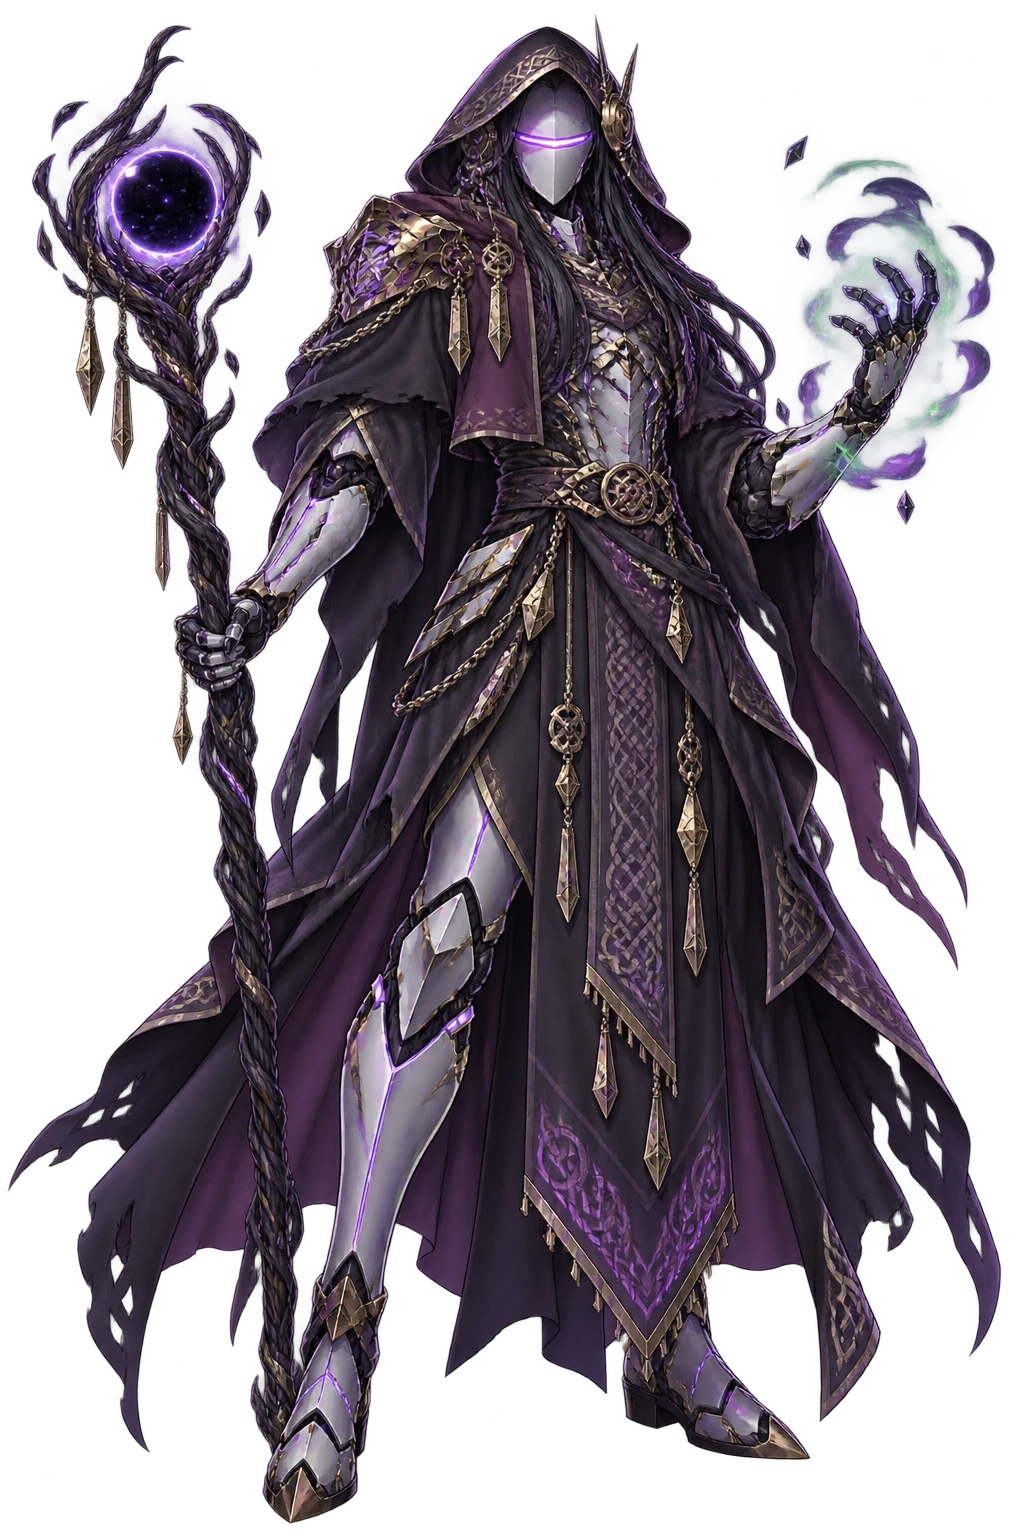
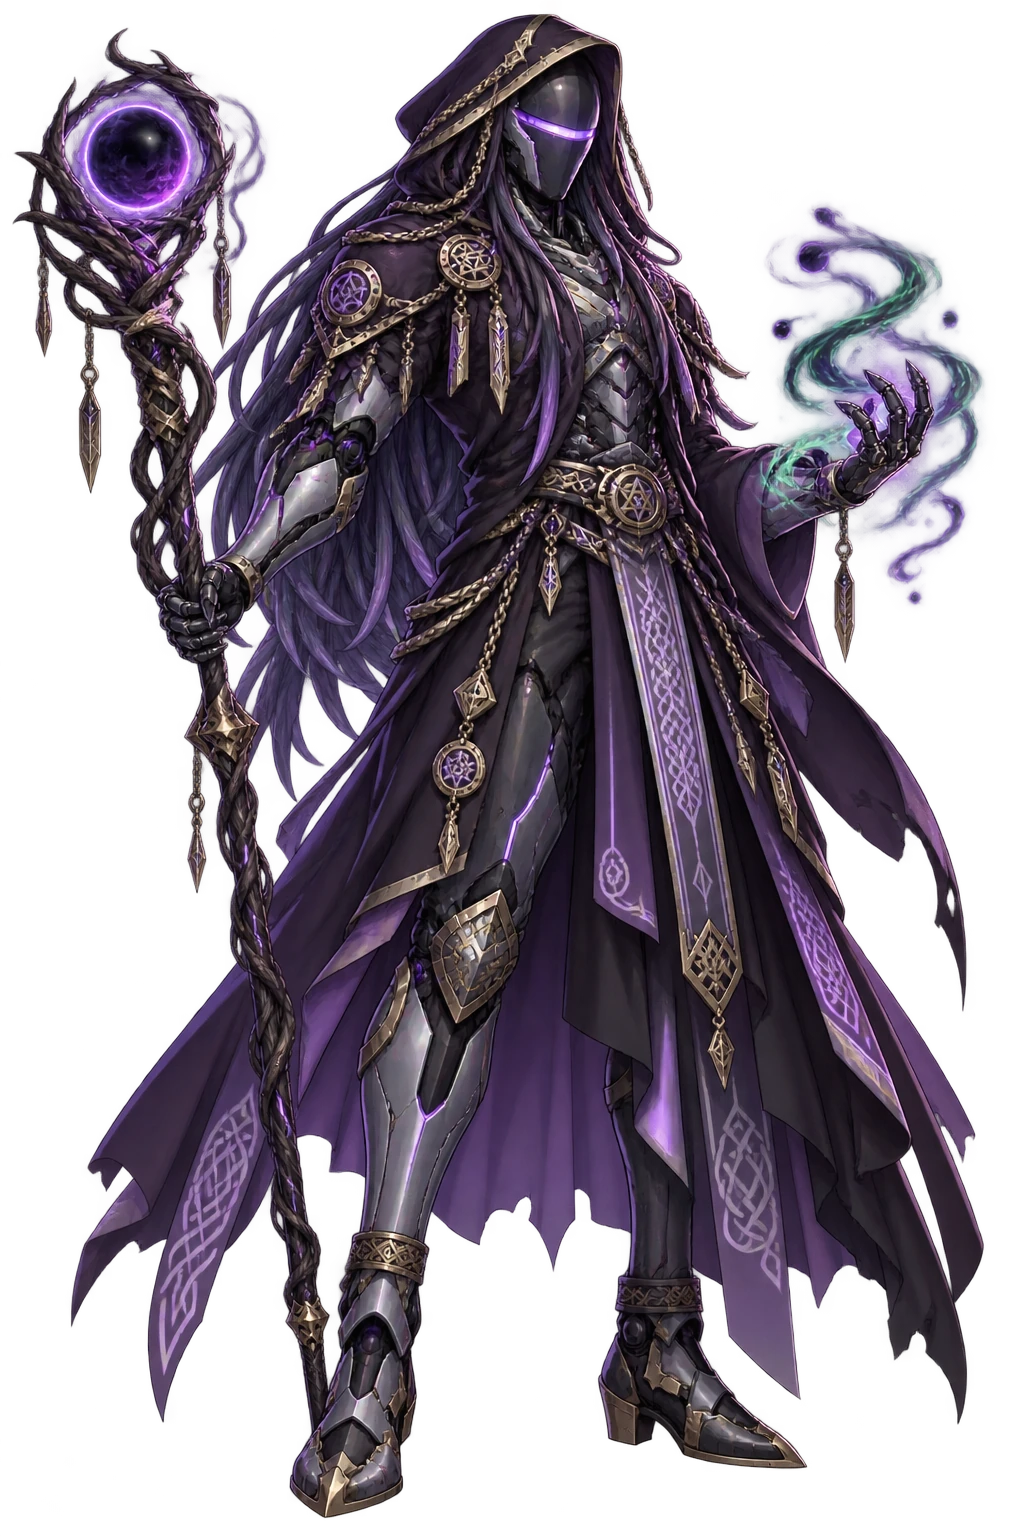
Art: Seidr male portrait (new) + female portrait — all 12 second classes now have real art
Claude-Session: https://claude.ai/code/session_017QrEU6PVR1NvrPzc5r5uQv

diff --git a/docs/ART_REQUESTS.md b/docs/ART_REQUESTS.md
@@ -935,7 +935,7 @@ Rows per priority: P1 = 36, P1+ = 6, P2 = 32, P2+ = 2, P3 = 72, P4 = 2, P4+ = 5,
 | ✅ | 7 | P1 | `job_galdr_f.webp` | 1024×1536 · transparent |
 | ✅ | 8 | P1 | `job_galdr_m.webp` | 1024×1536 · transparent |
 | ✅ | 9 | P1 | `emblem_galdr.webp` | 128² · transparent |
-| ⬜ | 10 | P1 | `job_seidr_f.webp` | 1024×1536 · transparent |
+| ✅ | 10 | P1 | `job_seidr_f.webp` | 1024×1536 · transparent |
 | ✅ | 11 | P1 | `job_seidr_m.webp` | 1024×1536 · transparent |
 | ✅ | 12 | P1 | `emblem_seidr.webp` | 128² · transparent |
 | ✅ | 13 | P1 | `job_skadi_f.webp` | 1024×1536 · transparent |
